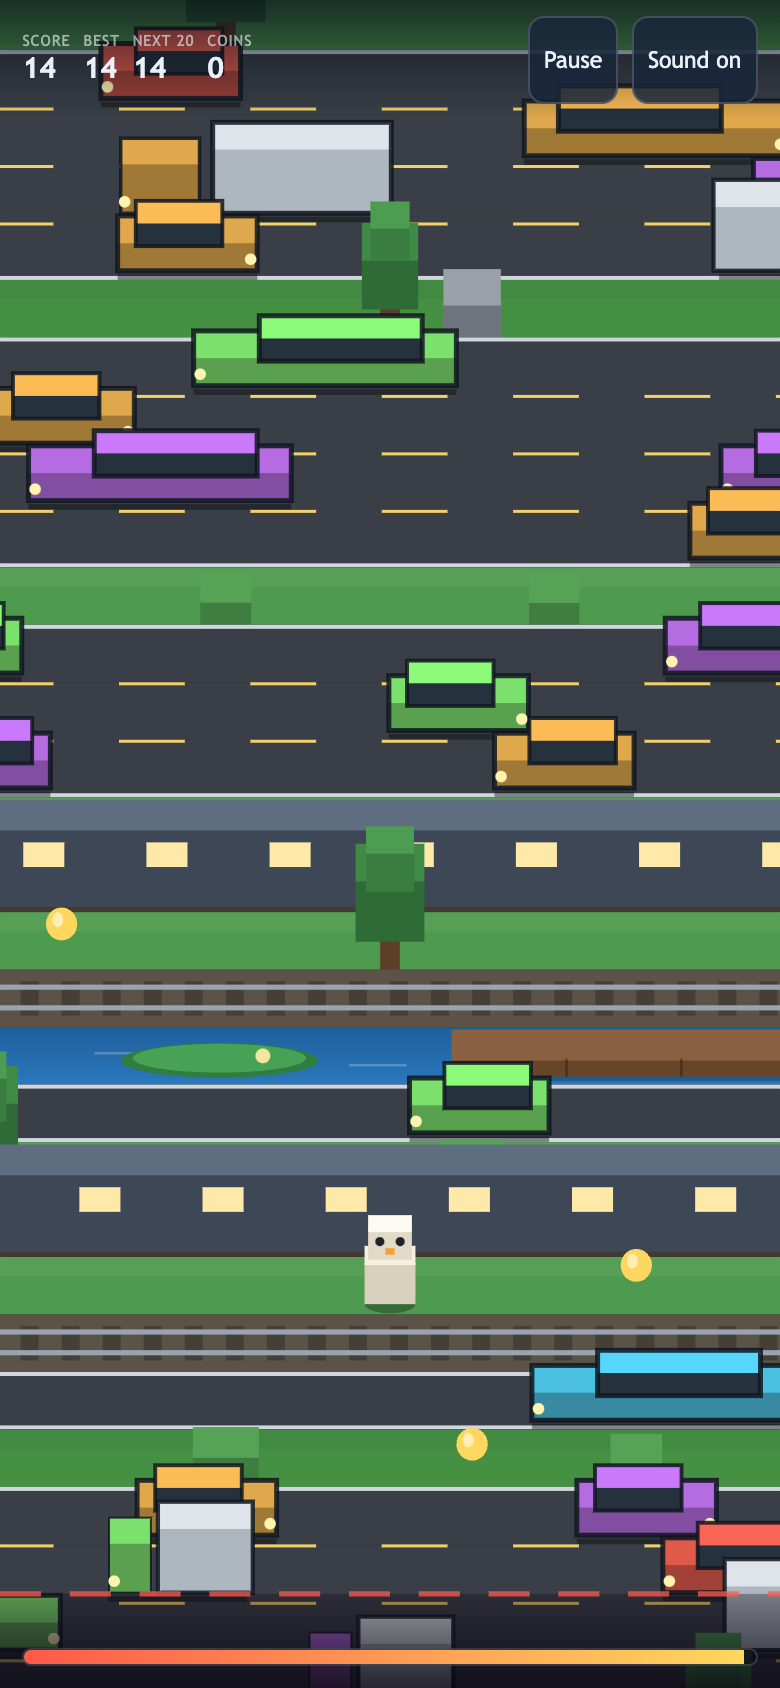
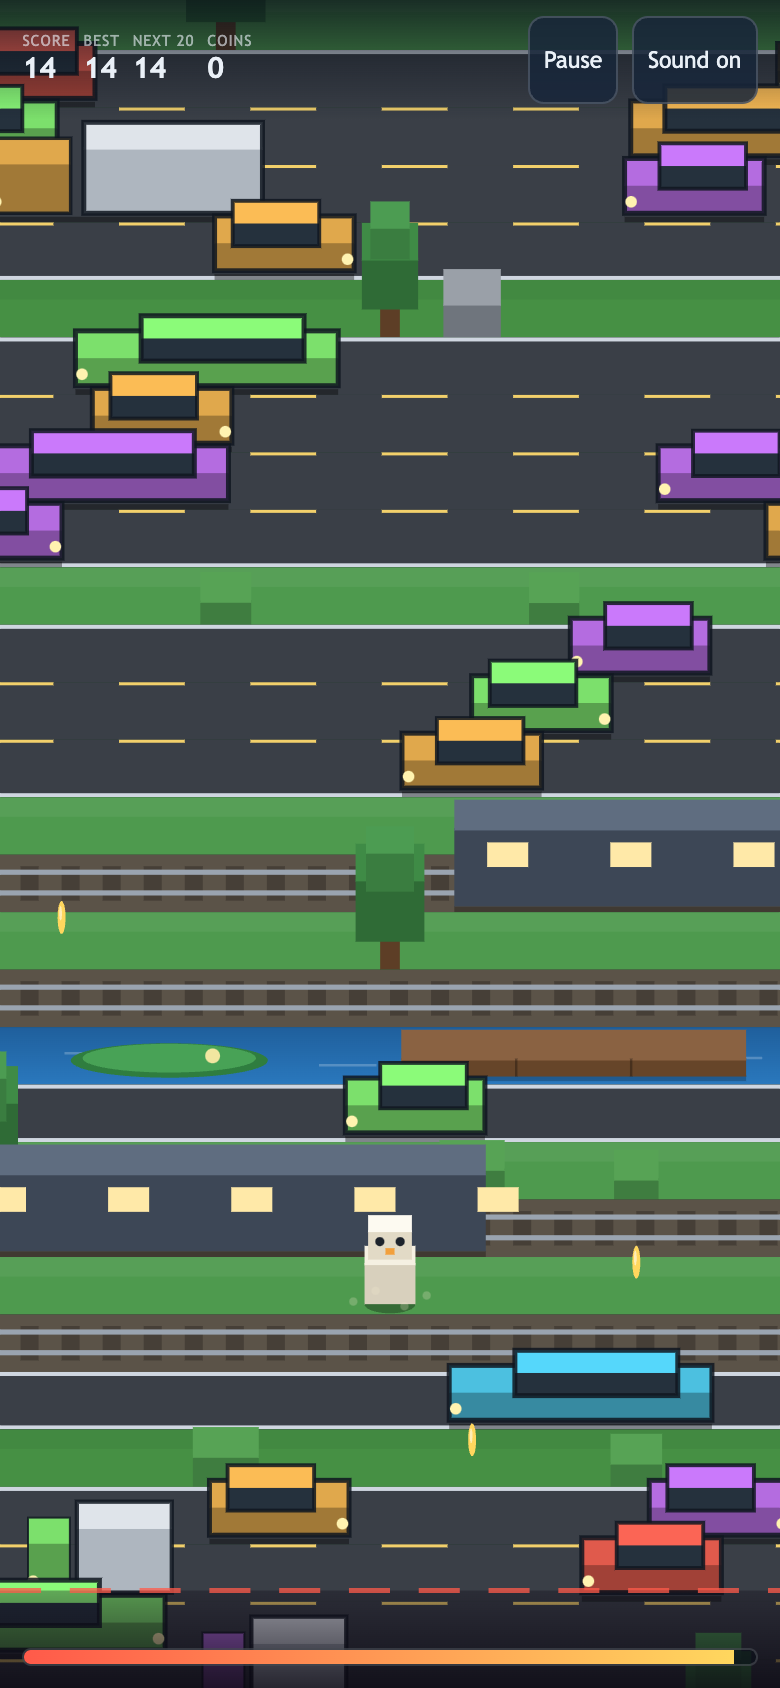
Add bounded landing dust and water splash
Touching down kicks up a few flecks: a short dusty puff on land, a wider pale
spray on water. The renderer detects the landing edge itself, so no event
plumbing and no simulation change - collision and scoring are untouched.

Bounded by construction rather than by culling: a fixed pool of 28 particles is
allocated once and reused slot by slot, so there is no per-frame allocation and
the count cannot grow under load. Skipped entirely under prefers-reduced-motion.

Tuned against captured frames, not guessed. The first pass was too brief and
too small to perceive - the land puff had faded to roughly a 1.6 px dot by the
time it was visible - so lifetime and radius were raised and the upward velocity
cut so the flecks read as spray at the surface rather than a fountain.

Tests: 39/39 unit, smoke 64/64, tsc and build clean, 5/5 viewports still
small=none with 0 px overflow and no console errors.

diff --git a/src/game/render.ts b/src/game/render.ts
@@ -30,6 +30,14 @@ export class Renderer {
    *  sake, so they are dropped when the OS asks for reduced motion. Nothing
    *  here feeds the simulation, so collision and scoring are unaffected. */
   private reducedMotion = false;
+  /** Landing dust and water splashes. A fixed pool allocated once and reused in
+   *  place: no per-frame allocation, and the count can never grow, so there is
+   *  nothing to cull under load. Purely cosmetic - the simulation never reads
+   *  it, so collision and scoring are unaffected. */
+  private readonly fx: Array<{ x: number; row: number; vx: number; vy: number; life: number; water: boolean }> =
+    Array.from({ length: 28 }, () => ({ x: 0, row: 0, vx: 0, vy: 0, life: 0, water: false }));
+  private fxNext = 0;
+  private wasHopping = false;
 
   constructor(private ctx: CanvasRenderingContext2D) {
     const q = matchMedia('(prefers-reduced-motion: reduce)');
@@ -45,6 +53,8 @@ export class Renderer {
     this.camX = 0;
     this.shake = 0;
     this.started = false;
+    this.wasHopping = false;
+    for (const f of this.fx) f.life = 0;
   }
 
   kick(power: number): void {
@@ -78,6 +88,59 @@ export class Renderer {
     this.camRow += (targetRow - this.camRow) * k;
     this.camX += (targetX - this.camX) * k;
     this.shake = Math.max(0, this.shake - dt * 2.2);
+
+    // Landing edge: the hop that was in flight last frame has finished.
+    const hopping = p.hop !== null && !p.hop.bump;
+    if (this.wasHopping && !hopping && state.phase === 'playing') {
+      const landed = rowAt(state, p.row);
+      this.spawnLanding(p.x, p.row, landed?.kind === 'river');
+    }
+    this.wasHopping = hopping;
+    for (const f of this.fx) {
+      if (f.life <= 0) continue;
+      f.life -= dt;
+      f.x += f.vx * dt;
+      f.row += f.vy * dt;
+      f.vy -= dt * 2.4;
+    }
+  }
+
+  /** A few flecks kicked up where the hopper touched down. Water gets a wider,
+   *  slower spray; land gets a short dusty puff. */
+  private spawnLanding(x: number, row: number, water: boolean): void {
+    if (this.reducedMotion) return;
+    const n = water ? 6 : 4;
+    for (let i = 0; i < n; i++) {
+      // Reuse the pool slot-by-slot: the oldest in-flight fleck is overwritten
+      // rather than the array growing.
+      const f = this.fx[this.fxNext]!;
+      this.fxNext = (this.fxNext + 1) % this.fx.length;
+      const a = (i / n) * Math.PI * 2 + row * 0.7;
+      const speed = water ? 2.2 : 1.6;
+      f.x = x;
+      f.row = row;
+      f.vx = Math.cos(a) * speed;
+      // Stay low: these read as spray at the surface, not as a fountain.
+      f.vy = Math.sin(a) * speed * 0.3 + (water ? 0.7 : 0.5);
+      f.life = water ? 0.55 : 0.45;
+      f.water = water;
+    }
+  }
+
+  private drawFx(sx: (x: number) => number, gy: (r: number) => number, tile: number, rowH: number): void {
+    const ctx = this.ctx;
+    for (const f of this.fx) {
+      if (f.life <= 0) continue;
+      const fade = Math.min(1, f.life / (f.water ? 0.55 : 0.45));
+      const r = tile * (f.water ? 0.17 : 0.15) * fade;
+      if (r <= 0.2) continue;
+      ctx.fillStyle = f.water
+        ? `rgba(214,238,255,${(fade * 0.9).toFixed(3)})`
+        : `rgba(238,230,205,${(fade * 0.75).toFixed(3)})`;
+      ctx.beginPath();
+      ctx.arc(sx(f.x), gy(f.row) - rowH * 0.2, r, 0, Math.PI * 2);
+      ctx.fill();
+    }
   }
 
   private rowH(vp: Viewport): number {
@@ -136,6 +199,7 @@ export class Renderer {
     // (only possible in the frame it dies) draw it anyway so it never vanishes.
     if (!rowAt(state, playerRow)) this.drawPlayer(state, sx, gy, tile, rowH);
 
+    this.drawFx(sx, gy, tile, rowH);
     this.drawTarget(state, sx, gy, tile, rowH);
     this.drawHawk(state, sx, gy, tile, rowH, vp);
     ctx.setTransform(vp.dpr, 0, 0, vp.dpr, 0, 0);

diff --git a/README.md b/README.md
@@ -238,6 +238,12 @@ What changed:
   (river 3, road 4) so no theme can chain past a crossable stretch. A short
   distance goal every 10 rows shows in the HUD as `Next N`; reaching one names
   the next and does not change the score, so there is nothing to protect.
+- **Landing and water effects.** Touching down kicks up a few flecks - a short
+  dusty puff on land, a wider pale spray on water. They are a fixed pool of 28
+  particles allocated once and reused in place, so there is no per-frame
+  allocation and the count cannot grow. Skipped under `prefers-reduced-motion`,
+  and renderer-only, so collision and scoring are untouched. See
+  `docs/shots/mobile-polish/fx-water-splash.png`.
 - **Vehicle contrast.** The warm body hues sit on `#3a3f47` asphalt below a 3:1
   ratio, so vehicles now carry a dark rim. It is stroked around each face the
   sprite actually draws rather than around a bounding box - a car is two boxes
